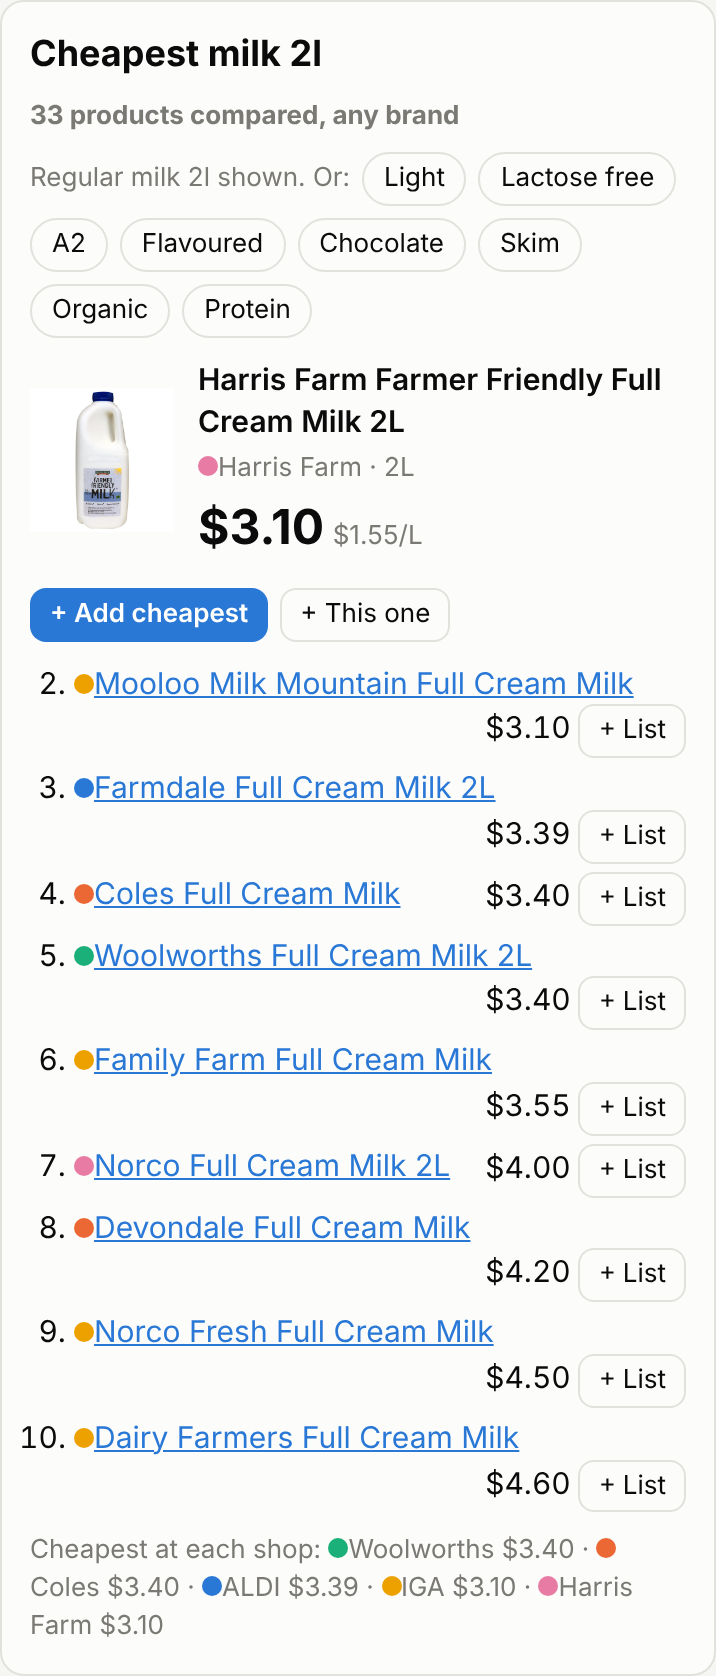
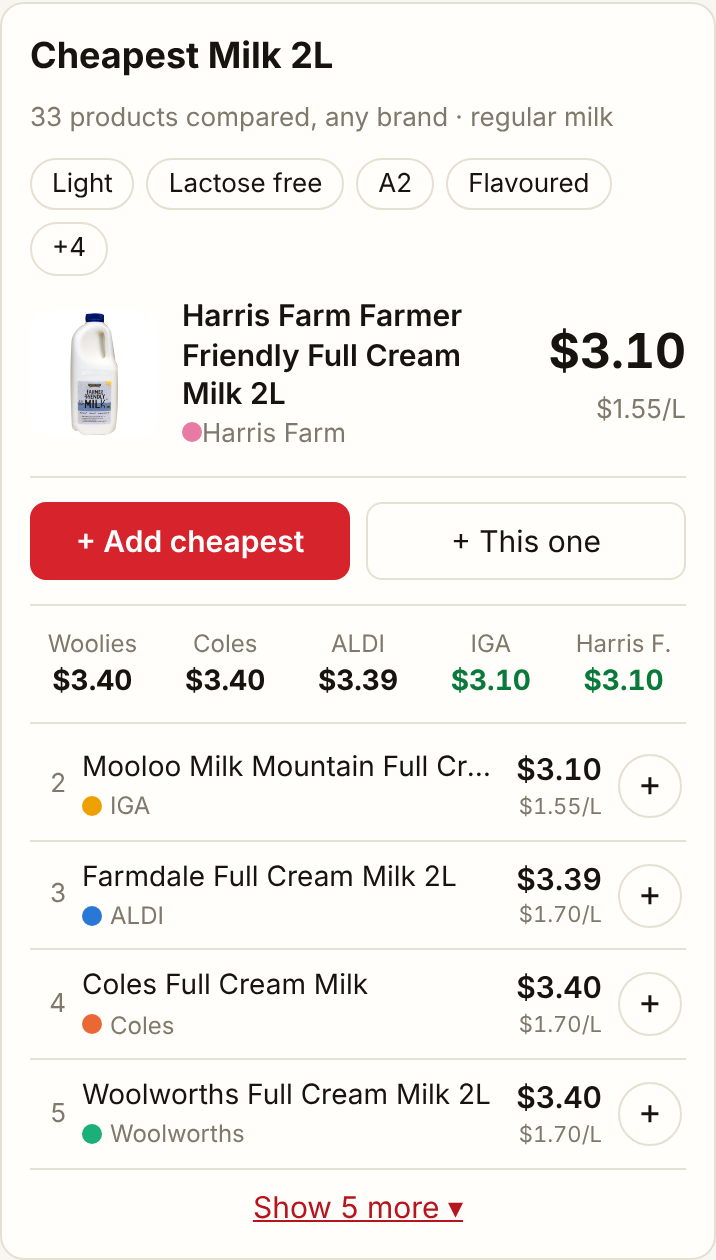
README: screenshots of the new design
Claude-Session: https://claude.ai/code/session_01UzRKoQGUgT1JqAZM5g567d

Changed region(s): [[0.0307, 0.0, 0.9525, 0.9905], [0.0615, 0.681, 0.6453, 0.7429], [0.9832, 0.9905, 1.0, 1.0]]

diff --git a/README.md b/README.md
@@ -9,7 +9,7 @@ A self-hosted price comparison site for Australian supermarkets. It collects eve
 <p align="center">
   <img src="docs/screenshots/compare-cheapest.png" width="220" alt="Searching 'milk 2l': the cheapest 2L milk of any brand, then the next cheapest and the cheapest at each shop">
   <img src="docs/screenshots/compare-sizes.png" width="220" alt="Searching 'milk': each common size with its cheapest, and the best value per litre highlighted">
-  <img src="docs/screenshots/list-item.png" width="220" alt="A list item that picks the cheapest 2L milk at each shop as prices change">
+  <img src="docs/screenshots/list.png" width="220" alt="A list: each item with the shop to buy it at, other shops' prices, and the total">
   <img src="docs/screenshots/in-the-shop.png" width="220" alt="In the shop: a checklist per shop, sorted by section">
 </p>
 
